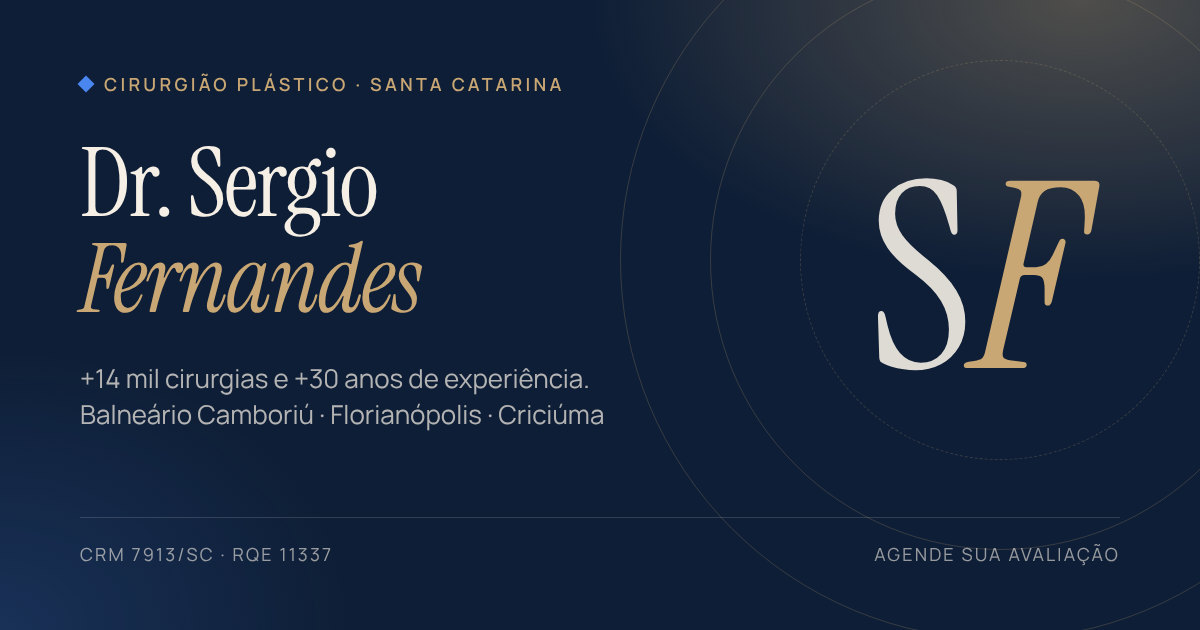
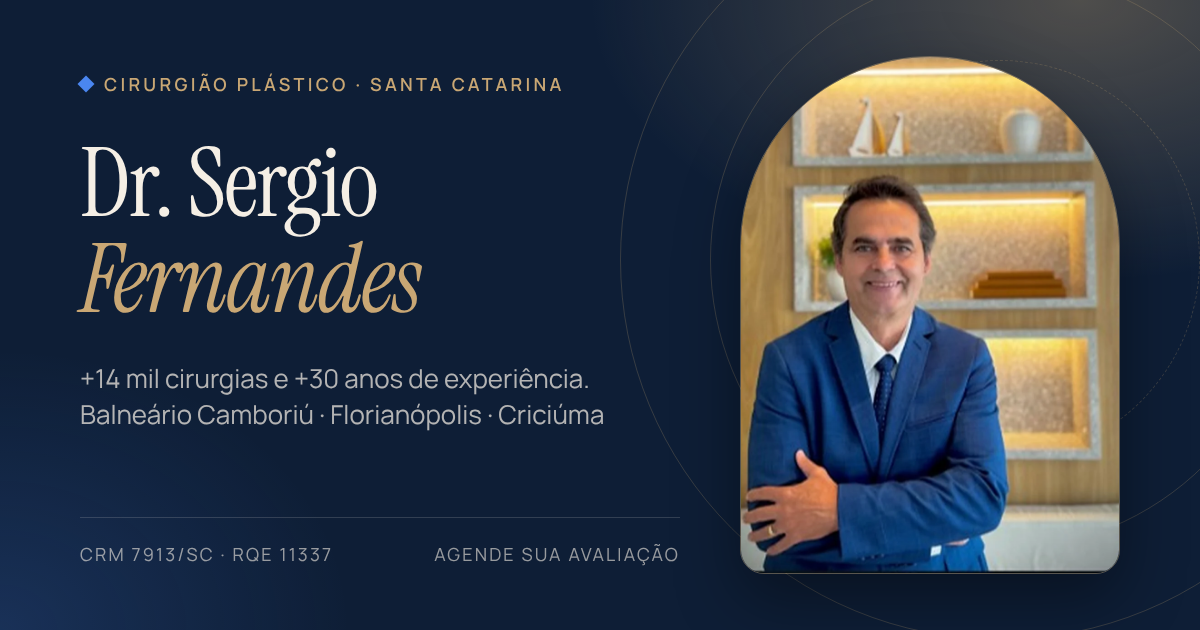
Fotos reais do Instagram no site
Retrato, centro cirúrgico, recepção, HBM Hospital, avatar, destaques e
grade de posts recortados da captura do perfil. OG image com foto real.

Claude-Session: https://claude.ai/code/session_011mZctEGtMhsMgpu4jpEqon

Changed region(s): [[0.6167, 0.0905, 0.9558, 0.9349], [0.37, 0.8746, 0.555, 0.9048]]

diff --git a/shared/data/site.ts b/shared/data/site.ts
@@ -58,9 +58,14 @@ export const site = {
      * Foto principal (retrato). Coloque o arquivo em /public/images e aponte aqui,
      * ex: '/images/dr-sergio.webp'. Vazio = moldura com monograma.
      */
-    portrait: '',
+    portrait: '/images/dr-sergio-retrato.webp',
     /** Foto em ação (centro cirúrgico / consultório). */
-    action: '',
+    action: '/images/dr-sergio-centro-cirurgico.webp',
+    /** Avatar usado na réplica do perfil do Instagram. */
+    instagramAvatar: '/images/instagram/avatar.webp',
+    /** Ambientes (recortados do Instagram). */
+    reception: '/images/clinica-recepcao.webp',
+    hospital: '/images/hbm-hospital.webp',
   },
 
   locations: [
@@ -98,11 +103,11 @@ export const site = {
 
   /** Destaques do Instagram (na mesma ordem do perfil). */
   highlights: [
-    { label: 'Abdominoplastia', procedure: 'abdominoplastia' },
-    { label: 'Depoimentos', procedure: '' },
-    { label: 'Mama', procedure: 'cirurgia-de-mama' },
-    { label: 'Lipo HD', procedure: 'lipo-hd' },
-    { label: 'Rinoplastia', procedure: 'rinoplastia' },
+    { label: 'Abdominoplastia', procedure: 'abdominoplastia', image: '/images/instagram/destaque-abdominoplastia.webp' },
+    { label: 'Depoimentos', procedure: '', image: '/images/instagram/destaque-depoimentos.webp' },
+    { label: 'Mama', procedure: 'cirurgia-de-mama', image: '/images/instagram/destaque-mama.webp' },
+    { label: 'Lipo HD', procedure: 'lipo-hd', image: '/images/instagram/destaque-lipo-hd.webp' },
+    { label: 'Rinoplastia', procedure: 'rinoplastia', image: '/images/instagram/destaque-rinoplastia.webp' },
   ],
 
   /**
@@ -110,12 +115,12 @@ export const site = {
    * Troque `image` por prints/fotos reais em /public/images/instagram e `url` pelo link do post.
    */
   instagramPosts: [
-    { kind: 'reel', caption: 'Bastidores do centro cirúrgico', tone: 'navy', image: '', url: '' },
-    { kind: 'reel', caption: 'Paciente conta como foi a decisão', tone: 'sand', image: '', url: '' },
-    { kind: 'reel', caption: 'Primeira troca de curativo', tone: 'ivory', image: '', url: '' },
-    { kind: 'reel', caption: 'Diário do dia 2 do meu sonho realizado', tone: 'rose', image: '', url: '' },
-    { kind: 'reel', caption: '“Quando sobrar um dinheirinho eu ajudo nas contas”', tone: 'gold', image: '', url: '' },
-    { kind: 'post', caption: 'Dúvidas frequentes no pós-operatório', tone: 'navy', image: '', url: '' },
+    { kind: 'reel', caption: 'Bastidores do centro cirúrgico', tone: 'navy', image: '/images/instagram/bastidores-centro-cirurgico.webp', url: '' },
+    { kind: 'reel', caption: 'O tamanho de prótese que a paciente quer', tone: 'sand', image: '/images/instagram/protese-consultorio.webp', url: '' },
+    { kind: 'post', caption: '+14 mil cirurgias realizadas', tone: 'navy', image: '/images/instagram/14-mil-cirurgias.webp', url: '' },
+    { kind: 'reel', caption: 'Somos nós: a equipe', tone: 'rose', image: '/images/instagram/equipe.webp', url: '' },
+    { kind: 'post', caption: '30 anos de profissão', tone: 'gold', image: '/images/instagram/30-anos.webp', url: '' },
+    { kind: 'reel', caption: 'Bastidores cirúrgicos', tone: 'navy', image: '/images/instagram/bastidores-cirurgico.webp', url: '' },
   ],
 } as const
 

diff --git a/app/components/HomeLocations.vue b/app/components/HomeLocations.vue
@@ -15,6 +15,17 @@ import { site, mapsUrl } from '#shared/data/site'
         </p>
       </div>
 
+      <div class="locations__photos">
+        <figure v-if="site.images.reception" v-reveal:mask class="locations__photo">
+          <img :src="site.images.reception" alt="Recepção do consultório do Dr. Sergio Fernandes" width="708" height="945" loading="lazy">
+          <figcaption>Recepção do consultório</figcaption>
+        </figure>
+        <figure v-if="site.images.hospital" v-reveal:mask="120" class="locations__photo">
+          <img :src="site.images.hospital" alt="Fachada do HBM Hospital" width="708" height="945" loading="lazy">
+          <figcaption>HBM Hospital</figcaption>
+        </figure>
+      </div>
+
       <ul class="locations__grid" role="list">
         <li v-for="(l, i) in site.locations" :key="l.slug" v-reveal="i * 100">
           <article class="loc">
@@ -45,6 +56,50 @@ import { site, mapsUrl } from '#shared/data/site'
 </template>
 
 <style scoped>
+.locations__photos {
+  display: grid;
+  grid-template-columns: 1fr 1fr;
+  gap: var(--spacing-grid);
+  margin-bottom: var(--spacing-grid);
+}
+
+.locations__photo {
+  position: relative;
+  overflow: hidden;
+  border-radius: var(--radius-xl);
+  aspect-ratio: 4 / 3;
+  background: var(--sand);
+}
+
+.locations__photo img {
+  width: 100%;
+  height: 100%;
+  object-fit: cover;
+  transition: transform 1200ms var(--ease-out);
+}
+
+.locations__photo:first-child img {
+  object-position: center 18%;
+}
+
+.locations__photo:hover img {
+  transform: scale(1.05);
+}
+
+.locations__photo figcaption {
+  position: absolute;
+  left: var(--space-4);
+  bottom: var(--space-4);
+  padding: var(--space-1) var(--space-3);
+  border-radius: var(--radius-pill);
+  background: rgba(251, 248, 243, 0.86);
+  backdrop-filter: blur(8px);
+  -webkit-backdrop-filter: blur(8px);
+  font-size: var(--text-xs);
+  font-weight: 600;
+  color: var(--ink);
+}
+
 .locations__grid {
   display: grid;
   gap: var(--spacing-grid);
@@ -160,6 +215,10 @@ import { site, mapsUrl } from '#shared/data/site'
 }
 
 @media (min-width: 900px) {
+  .locations__photo {
+    aspect-ratio: 16 / 9;
+  }
+
   .locations__grid {
     grid-template-columns: repeat(3, 1fr);
   }

diff --git a/app/components/InstagramProfile.vue b/app/components/InstagramProfile.vue
@@ -23,7 +23,7 @@ const NuxtLink = resolveComponent('NuxtLink')
     <div class="ig__header">
       <a :href="site.links.instagram" target="_blank" rel="noopener" class="ig__avatar" aria-label="Abrir perfil no Instagram">
         <span class="ig__avatar-inner">
-          <img v-if="site.images.portrait" :src="site.images.portrait" alt="" width="80" height="80" loading="lazy">
+          <img v-if="site.images.instagramAvatar" :src="site.images.instagramAvatar" alt="" width="80" height="80" loading="lazy">
           <BrandMark v-else compact />
         </span>
       </a>
@@ -60,7 +60,12 @@ const NuxtLink = resolveComponent('NuxtLink')
           :rel="h.procedure ? undefined : 'noopener'"
           class="ig__hl"
         >
-          <span class="ig__hl-ring"><span class="ig__hl-inner">{{ h.label.slice(0, 1) }}</span></span>
+          <span class="ig__hl-ring">
+            <span class="ig__hl-inner">
+              <img v-if="h.image" :src="h.image" alt="" width="56" height="56" loading="lazy">
+              <template v-else>{{ h.label.slice(0, 1) }}</template>
+            </span>
+          </span>
           <span class="ig__hl-label">{{ h.label }}</span>
         </component>
       </li>
@@ -296,6 +301,18 @@ const NuxtLink = resolveComponent('NuxtLink')
   font-size: var(--text-2xl);
   color: var(--navy);
   transition: background var(--dur-med);
+}
+
+.ig__hl-inner img {
+  width: 100%;
+  height: 100%;
+  border-radius: 50%;
+  object-fit: cover;
+  transition: transform var(--dur-med) var(--ease-out);
+}
+
+.ig__hl:hover .ig__hl-inner img {
+  transform: scale(1.12);
 }
 
 .ig__hl:hover .ig__hl-ring {
